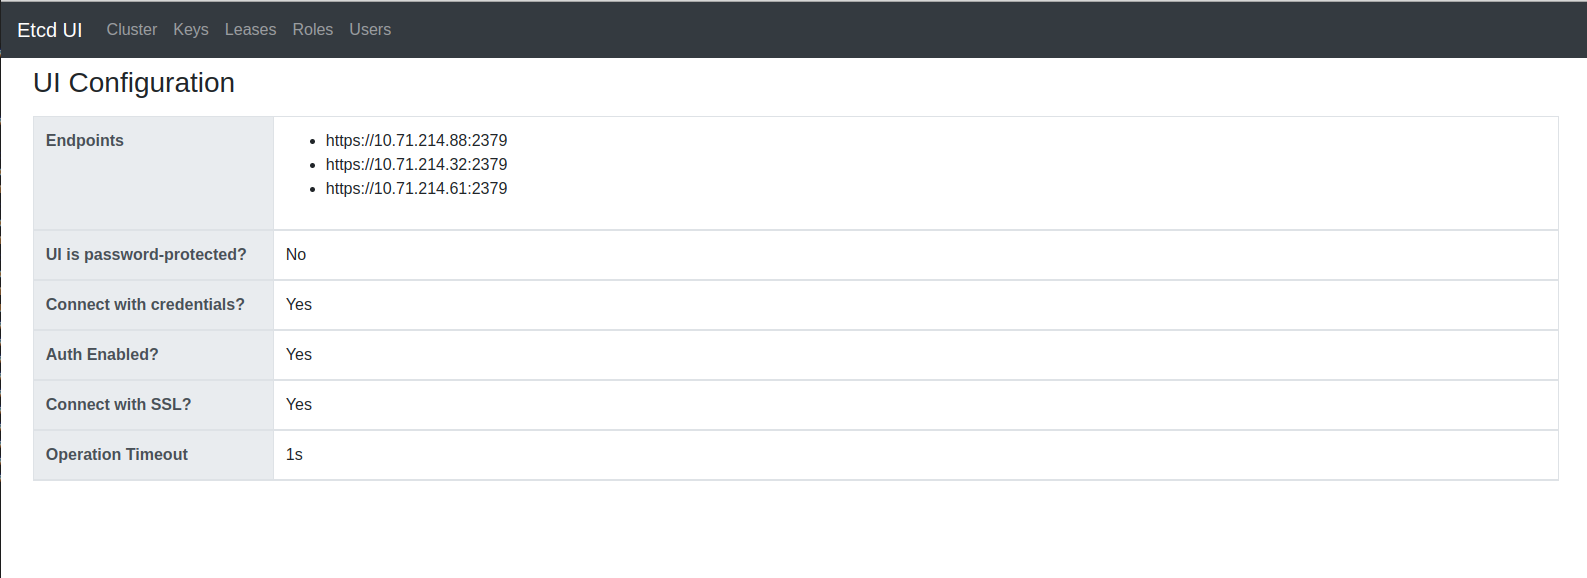
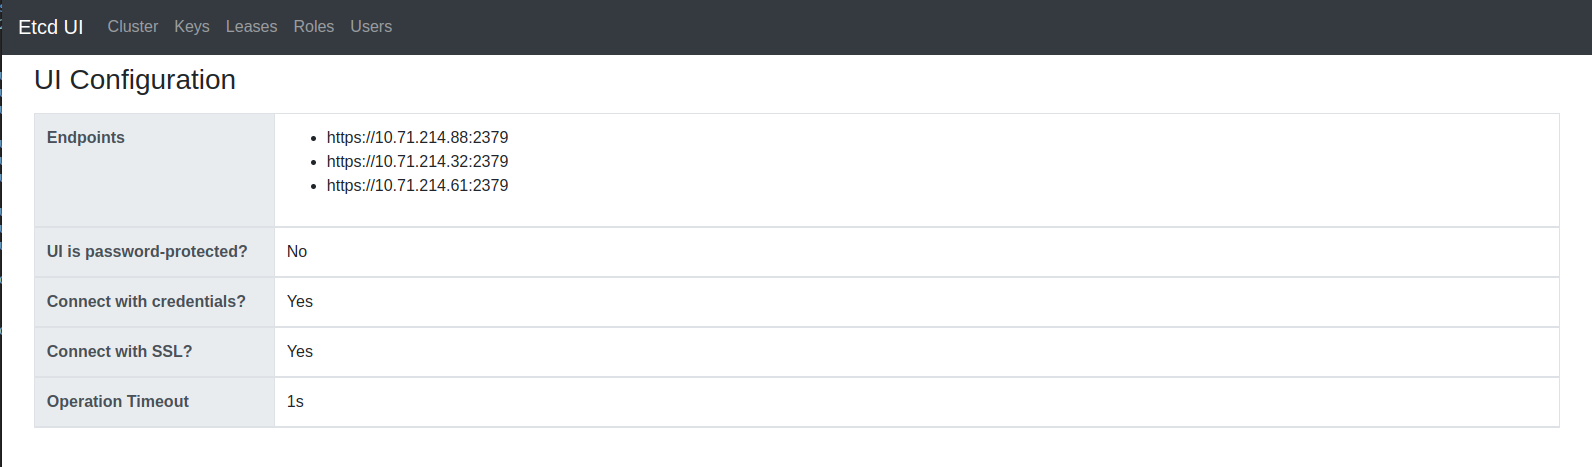
Update docs Allow enabling and disabling auth from the UI

diff --git a/templates/cluster/stats.html b/templates/cluster/stats.html
@@ -2,8 +2,8 @@
 
 {{define "custom_css"}}
 <style scoped>
-    table > thead > tr > th.col-setting-key,
-    table > thead > tr > th.col-member-name
+    table > tbody > tr > td.col-setting-key,
+    table > tbody > tr > td.col-member-name
     {
         width: 15rem;
     }
@@ -22,20 +22,30 @@
     <div class="col-12">
         {{if .data.Header}}
         <table class="table table-striped mb-2">
-            <thead class="thead-light">
+            <tbody class="thead-light">
                 <tr>
-                    <th class="col-setting-key">ClusterID</th>
+                    <td class="col-setting-key">ClusterID</td>
                     <td>{{hex .data.Header.ClusterID}}</td>
                 </tr>
                 <tr>
-                    <th>Responder Member ID</th>
+                    <td>Responder Member ID</td>
                     <td>{{hex .data.Header.MemberID}}</td>
                 </tr>
                 <tr>
-                    <th>Raft Term</th>
+                    <td>Raft Term</td>
                     <td>{{.data.Header.RaftTerm}}</td>
                 </tr>
-            </thead>
+                <tr>
+                    <td>Auth Enabled?</td>
+                    <td>
+                        {{if .data.AuthEnabled}}
+                        Yes (<a href="/cluster/auth/disable">disable</a>)
+                        {{else}}
+                        No (<a href="/cluster/auth/enable">enable</a>)
+                        {{end}}
+                    </td>
+                </tr>
+            </tbody>
         </table>
         {{end}}
 

diff --git a/templates/home/index.html b/templates/home/index.html
@@ -40,10 +40,6 @@
                     <td>{{if .data.Settings.WithCredentials}}Yes{{else}}No{{end}}</td>
                 </tr>
                 <tr>
-                    <th>Auth Enabled?</th>
-                    <td>{{if .data.Settings.AuthEnabled}}Yes{{else}}No{{end}}</td>
-                </tr>
-                <tr>
                     <th>Connect with SSL?</th>
                     <td>{{if .data.Settings.WithSSL}}Yes{{else}}No{{end}}</td>
                 </tr>

diff --git a/internal/controllers/cluster/stats.go b/internal/controllers/cluster/stats.go
@@ -1,6 +1,7 @@
 package cluster
 
 import (
+	"log"
 	"net/http"
 	"strconv"
 	"time"
@@ -18,6 +19,15 @@ func clusterIndex(c echo.Context) error {
 		members = make([]types.MemberRecord, 0)
 		alarms  = make([]types.AlarmRecord, 0)
 	)
+
+	authEnabled, authCheckErr := v3.CheckAuthEnabled(
+		utils.GetEntryPoints(),
+		utils.GetSSLCertFile(), utils.GetSSLKeyFile(), utils.GetSSLCAFile(),
+	)
+
+	if authCheckErr != nil {
+		log.Printf("error checking if auth is enabled: %+v\n", authCheckErr)
+	}
 
 	etcdClient, err := v3.New(
 		utils.GetEntryPoints(),
@@ -57,12 +67,13 @@ func clusterIndex(c echo.Context) error {
 		code,
 		"cluster/stats.html",
 		map[string]interface{}{
-			"Title":      "Cluster Stats",
-			"Error":      utils.ErrorMessage(err),
-			"Items":      members,
-			"SingleNode": len(members) == 1,
-			"Alarms":     alarms,
-			"Header":     stats,
+			"Title":       "Cluster Stats",
+			"Error":       utils.ErrorMessage(err),
+			"Items":       members,
+			"SingleNode":  len(members) == 1,
+			"AuthEnabled": authEnabled,
+			"Alarms":      alarms,
+			"Header":      stats,
 		},
 	)
 }
@@ -87,6 +98,35 @@ func electNewLeader(c echo.Context) error {
 				err = electionErr
 			}
 		}
+	}
+
+	if err != nil {
+		return c.JSON(
+			http.StatusBadRequest,
+			map[string]interface{}{
+				"Error": utils.ErrorMessage(err),
+			},
+		)
+	}
+
+	time.Sleep(time.Second)
+
+	return c.Redirect(http.StatusSeeOther, "/cluster/stats")
+}
+
+func clusterFlipAuth(c echo.Context) error {
+	var (
+		action = c.Param("action")
+	)
+
+	etcdClient, err := v3.New(
+		utils.GetEntryPoints(),
+		utils.GetSSLCertFile(), utils.GetSSLKeyFile(), utils.GetSSLCAFile(),
+		utils.GetUsername(), utils.GetPassword(),
+	)
+
+	if err == nil {
+		err = etcdClient.EnableAuth(action == "enable")
 	}
 
 	if err != nil {

diff --git a/internal/controllers/home/index.go b/internal/controllers/home/index.go
@@ -1,24 +1,13 @@
 package home
 
 import (
-	"log"
 	"net/http"
 
 	"github.com/labstack/echo/v4"
 	"github.com/utking/etcd-ui/internal/helpers/utils"
-	v3 "github.com/utking/etcd-ui/internal/providers/etcd/v3"
 )
 
 func homeIndex(c echo.Context) error {
-	authEnabled, authCheckErr := v3.CheckAuthEnabled(
-		utils.GetEntryPoints(),
-		utils.GetSSLCertFile(), utils.GetSSLKeyFile(), utils.GetSSLCAFile(),
-	)
-
-	if authCheckErr != nil {
-		log.Printf("error checking if auth is enabled: %+v\n", authCheckErr)
-	}
-
 	return c.Render(
 		http.StatusOK,
 		"home/index.html",
@@ -28,7 +17,6 @@ func homeIndex(c echo.Context) error {
 				"Endpoints":         utils.GetEntryPoints(),
 				"Timeout":           utils.GetOpTimeout(),
 				"UIWithCredentials": utils.GetUIUsername() != "",
-				"AuthEnabled":       authEnabled,
 				"WithCredentials":   utils.GetUsername() != "",
 				"WithSSL":           utils.GetSSLCAFile() != "",
 			},

diff --git a/internal/providers/etcd/v3/stats.go b/internal/providers/etcd/v3/stats.go
@@ -100,3 +100,18 @@ func (c *Client) EndpointsStatus() (map[uint64]types.EndpointStatusRecord, error
 
 	return status, nil
 }
+
+func (c *Client) EnableAuth(enable bool) (err error) {
+	ctx, cancel := context.WithTimeout(context.Background(), c.opTimeout)
+	defer cancel()
+
+	if enable {
+		_, err = c.client.Auth.AuthEnable(ctx)
+
+		return
+	}
+
+	_, err = c.client.Auth.AuthDisable(ctx)
+
+	return
+}

diff --git a/internal/controllers/cluster/setup.go b/internal/controllers/cluster/setup.go
@@ -9,6 +9,7 @@ func Setup(app *echo.Echo, webMenu *types.WebMenu) {
 	router := app.Group("/cluster")
 
 	router.GET("/stats", clusterIndex)
+	router.GET("/auth/:action", clusterFlipAuth)
 	router.GET("/elect/:id", electNewLeader)
 
 	router.GET("/leases", indexLeases)

diff --git a/README.md b/README.md
@@ -14,7 +14,7 @@ A simple UI for Etcd clusters. Tested with Etcd API v3 only.
 - [x] Allow creating/modifying leases
 - [x] Allow creating/modifying roles
 - [x] Allow creating/modifying users
-- [ ] Allow enabling/disabling auth
+- [x] Allow enabling/disabling auth
 
 ## Configuration
 
